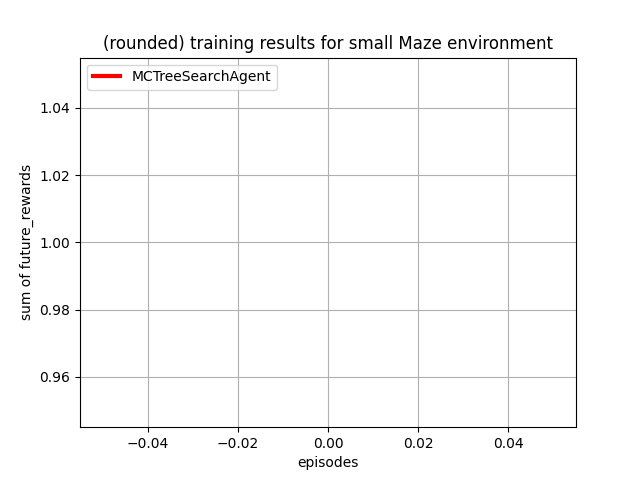
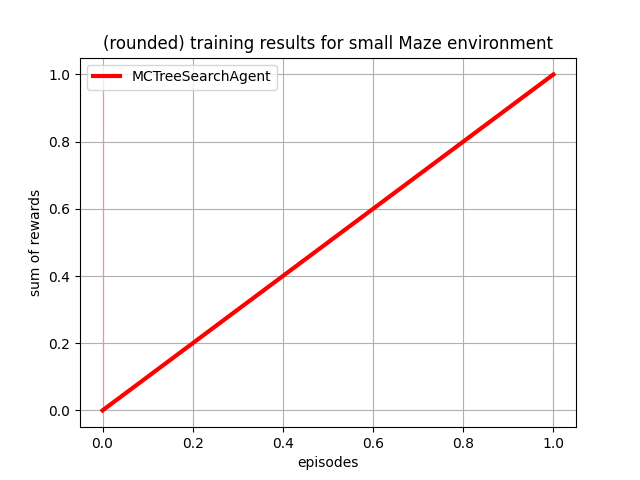
update mcts visualisation showcase

diff --git a/agent_methods/mc_tree_search_agent.py b/agent_methods/mc_tree_search_agent.py
@@ -54,12 +54,19 @@ class MCTreeSearchAgent(AbstractAgent):
         self.amount_test_probability = amount_test_probability
         self.playouts_per_simulation = playouts_per_simulation
         self.playouts_per_action = playouts_per_action
-        self.a = None  # action which was chosen by act function
         self.c = c  # exploration factor of uct formula, sqrt(2) in literature, but can be changed for env
+
+        self.a = None  # action which was chosen by act function
         self.root_node: Optional[_Node] = None
+        self.simulation_counter = 0  # counts amount of simulation playouts
+
+    def reset(self) -> None:
+        self.a = None  # action which was chosen by act function
+        self.root_node: Optional[_Node] = None
+        self.simulation_counter = 0  # counts amount of simulation playouts
 
     def act(self, observation: int) -> int:
-        for _ in range(self.playouts_per_action):
+        while self.simulation_counter < self.playouts_per_action:
             # 1. Selection: choose promising leaf node, that is not end of game
             if self.root_node:
                 promising_leaf = self.choose_promising_leaf_node()
@@ -93,6 +100,7 @@ class MCTreeSearchAgent(AbstractAgent):
             sum_of_rewards = 0
             discount = 1
             for _ in range(self.playouts_per_simulation):
+                self.simulation_counter += 1
                 env_simulated = rnd_child.env_in_state
                 done = rnd_child.done
                 steps = 0
@@ -112,8 +120,6 @@ class MCTreeSearchAgent(AbstractAgent):
                 update_node.visits += self.playouts_per_simulation
                 update_node.future_rewards += discount * sum_of_rewards
                 discount *= self.gamma
-
-            self.playouts_per_action += 1
 
         #  choose action with highest estimated reward
         action_list = []

diff --git a/utils/visualize_training_results_for_agents.py b/utils/visualize_training_results_for_agents.py
@@ -27,9 +27,9 @@ def visualize_training_results_for_agents(stats_multiple_agents: dict, save_fig=
     :param zero_zero_start: starting the graphs of agents by 0 episodes and 0 reward
     """
     for agent_idx, agent_name in enumerate(stats_multiple_agents.keys()):
-        steps_per_repetition = [] if not zero_zero_start else [0]
-        rewards_per_repetition = [] if not zero_zero_start else [0]
-        epsilon_per_repetition = [] if not zero_zero_start else [0]
+        steps_per_repetition = []
+        rewards_per_repetition = []
+        epsilon_per_repetition = []
 
         for repetition in stats_multiple_agents[agent_name]:
             steps_per_repetition.append(repetition['steps'])
@@ -42,9 +42,14 @@ def visualize_training_results_for_agents(stats_multiple_agents: dict, save_fig=
         length_episode = len(rewards_per_episode)
 
         smooth_filter = length_episode / 200
-        min_rewards_per_episode = gaussian_filter1d(np.min(rewards_per_episode, axis=-1), sigma=smooth_filter)
-        mean_rewards_per_episode = gaussian_filter1d(np.mean(rewards_per_episode, axis=-1), sigma=smooth_filter)
-        max_rewards_per_episode = gaussian_filter1d(np.max(rewards_per_episode, axis=-1), sigma=smooth_filter)
+        min_rewards_per_episode = list(gaussian_filter1d(np.min(rewards_per_episode, axis=-1), sigma=smooth_filter))
+        mean_rewards_per_episode = list(gaussian_filter1d(np.mean(rewards_per_episode, axis=-1), sigma=smooth_filter))
+        max_rewards_per_episode = list(gaussian_filter1d(np.max(rewards_per_episode, axis=-1), sigma=smooth_filter))
+
+        if zero_zero_start:
+            min_rewards_per_episode.insert(0, 0.0)
+            mean_rewards_per_episode.insert(0, 0.0)
+            max_rewards_per_episode.insert(0, 0.0)
 
         color = COLORS[agent_idx]
         color_light = color.copy()

diff --git a/examples/showcase_mcts.py b/examples/showcase_mcts.py
@@ -11,7 +11,7 @@ state transitions.
 
 
 env = FrozenLakeEnv()
-mcts = MCTreeSearchAgent(env, playouts_per_action=100, playouts_per_simulation=100000)
+mcts = MCTreeSearchAgent(env, playouts_per_action=100000, playouts_per_simulation=100, gamma=0.9)
 
 stats = train_agents(env, [mcts], training_episodes=1, repetitions=1)
 visualize_training_results_for_agents(stats, save_fig='mcts_on_small_maze.png',
